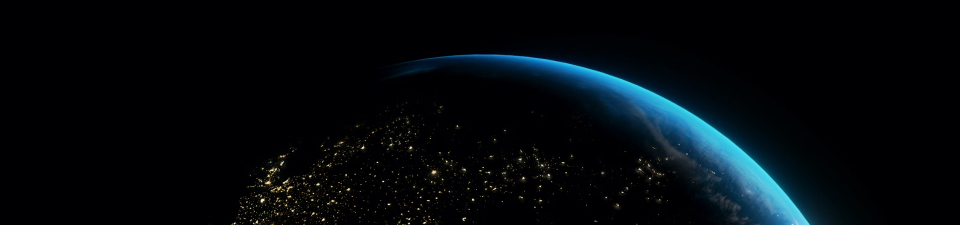
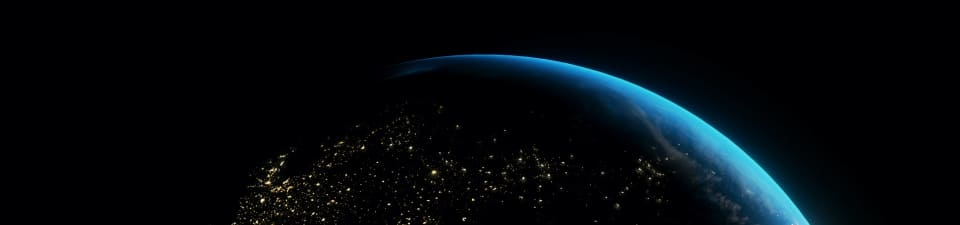
Sitio de detalles del pais creado y estilado

Changed region(s): [[0.25, 0.7778, 0.3125, 0.84], [0.4688, 0.2178, 0.5, 0.2489], [0.2812, 0.8711, 0.3125, 0.9022]]

diff --git a/src/routes/details/components/Details.jsx b/src/routes/details/components/Details.jsx
@@ -1,0 +1,90 @@
+import { NavLink } from "react-router";
+import BgEarth from "../../../assets/BgEarth"
+
+export default function Details({ match, countries }){
+    const countryInfo = match[0];
+
+    return(
+        <>
+            <BgEarth/>
+            <div className="details-wrapper">
+                <header className="details-header">
+                    <figure className="details-header_figure">
+                        <img src={countryInfo.flags.png} alt={countryInfo.flag} className="details-header_flagImage"/>
+                        <figcaption className="details-header_figcaption">
+                            {countryInfo.name.common}
+                            <span className="details-header_officialName">{countryInfo.name.official}</span>
+                        </figcaption>
+                    </figure>
+
+                    <div className="details-header_countryInfo">
+                        <div className="details-header_infoContainer">
+                            <span>Population</span>
+                            <span className="details-header_bar">|</span>
+                            <span>{ countryInfo.population.toLocaleString() }</span>
+                        </div>
+                        
+                        <div className="details-header_infoContainer">
+                            <span>Area (km²)</span>
+                            <span className="details-header_bar">|</span>
+                            <span>{ countryInfo.area.toLocaleString() }</span>
+                        </div>
+                    </div>
+                </header>
+                
+                <main className="details-main">
+                    <ul className="details-main_list">
+                        <li className="details-main_listItem">
+                            <span>Capital</span>
+                            <span>{ countryInfo.capital.map(capitalName => capitalName) }</span>
+                        </li>
+
+                        <li className="details-main_listItem">
+                            <span>Subregion</span>
+                            <span>{ countryInfo.subregion }</span>
+                        </li>
+
+                        <li className="details-main_listItem">
+                            <span>Language</span>
+                            <span>{ Object.values(countryInfo.languages).join(", ") }</span>
+                        </li>
+
+                        <li className="details-main_listItem">
+                            <span>Currencies</span>
+                            <span>{ Object.values(countryInfo.currencies).map(i => i.name).join(", ") }</span>
+                        </li>
+
+                        <li className="details-main_listItem">
+                            <span>Continents</span>
+                            <span>{ countryInfo.continents.map(i => i).join(", ") }</span>
+                        </li>
+                    </ul>
+                </main>
+
+                <footer className="details-footer">
+                    <h3 className="details-footer_title">Neighbouring Countries</h3>
+                    
+                    <ul className="details-footer_list">
+                        { 
+                            countryInfo.borders.map((border) => {
+                                const neighbouring = countries.find(country => country.cca3 == border);
+                                return (
+                                    <li key={border} className="details-footer_listItem">
+                                        <figure className="details-footer_figure">
+                                            <NavLink to={`/details/${ neighbouring.name.common }`} className="details-footer_link">
+                                                <img src={ neighbouring.flags.png } alt={`flag ${ border }`}  className="details-footer_flagImage"/>
+                                                <figcaption className="details-footer_figcaption">{ neighbouring.name.common }</figcaption>
+                                            </NavLink>
+                                        </figure>
+                                    </li>
+                                )
+                            })
+                        }
+                    </ul>
+
+                    <NavLink to="/" className="go-back">Go Back</NavLink>
+                </footer>
+            </div>
+        </>
+    )
+}

diff --git a/src/routes/details/styles/details.css b/src/routes/details/styles/details.css
@@ -1,0 +1,138 @@
+.details-wrapper{
+    width: 55%; height: auto;
+    max-width: 750px;
+    margin-inline: auto;
+    background-color: var(--strong-dark);
+    outline: 1.5px solid var(--soft-dark);
+    border-radius: 10px;
+    transform: translateY(-60px);
+
+    /* Encabezado */
+    .details-header{
+        display: grid;
+        justify-content: center;
+        margin-bottom: 20px;
+        font-family: "BeVietnamPro Medium";
+
+        .details-header_figure{
+            text-align: center;
+            translate: 0 -42px;
+
+            .details-header_flagImage{
+                width: 260px; height: auto;
+                border-radius: 10px;
+            }
+
+            .details-header_figcaption{
+                margin-top: 12px;
+                font-family: "BeVietnamPro SemiBold";
+                font-size: 1.6em;
+                line-height: 1.3;
+
+                .details-header_officialName{
+                    display: block;
+                    font-family: "BeVietnamPro Medium";
+                    font-size: .6em;
+                }
+            }
+        }
+
+        .details-header_countryInfo{
+            display: flex;
+            gap: 20px;
+            font-size: .9em;
+            translate: 0 -18px;
+
+            .details-header_infoContainer{
+                padding: 12px;
+                background-color: var(--soft-dark);
+                border-radius: 10px;
+               
+                .details-header_bar{
+                    display: inline-block;
+                    margin-inline: 5px;
+                    color: #1B1D1F88;
+                    transform: scaleY(1.5);
+                }
+            }
+        }
+    }
+
+    /* Contenido principal: información del país */
+    .details-main{
+        width: 100%; height: auto;
+        margin-bottom: 20px;
+        font-size: .93em;
+
+        .details-main_list{
+            list-style: none;
+
+            .details-main_listItem{
+                display: flex;
+                justify-content: space-between;
+                padding: 15px 18px;
+                border-top: 1.5px solid var(--soft-dark);
+                &:last-child{ border-bottom: 1.5px solid var(--soft-dark) }
+
+                span:first-child{ font-family: "BeVietnamPro Medium" }
+            }
+        }
+    }
+
+    /* Footer: Paises vecinos */
+    .details-footer{
+        display: grid;
+        padding-inline: 15px;
+
+        .details-footer_title{ 
+            margin-bottom: 20px;
+            font-size: .9em; 
+        }
+
+        .details-footer_list{
+            display: flex;
+            gap: 15px;
+            flex-wrap: wrap;
+            margin-bottom: 20px;
+            list-style: none;
+
+            .details-footer_listItem{
+                .details-footer_figure{
+                    max-width: 76px;
+
+                    .details-footer_link{
+                        text-decoration: none;
+                        font-size: .9em;
+                        color: var(--soft-gray);
+                        text-align: center;
+                        line-height: 1.5;
+                        text-wrap: wrap;
+
+                        .details-footer_flagImage{
+                            width: 100%; height: 54px;
+                            border-radius: 8px;
+                            object-fit: cover;
+                        }
+                    }
+                }
+            }
+        }
+
+        .go-back{
+            justify-self: end;
+            display: inline-block;
+            width: 100px;
+            margin-bottom: 22px;
+            padding-block: 8px;
+            font-family: "BeVietnamPro Medium";
+            font-size: .8em;
+            color: var(--soft-gray);
+            text-align: center;
+            text-decoration: none;
+            background-color: var(--soft-dark);
+            border-radius: 8px;
+
+            &:hover{ opacity: .9 }
+        }
+    }
+}

diff --git a/src/routes/app/components/common/TableItem.jsx b/src/routes/app/components/common/TableItem.jsx
@@ -1,3 +1,4 @@
+import { NavLink } from "react-router";
 import { useFilters } from "../../../../context/hook/useFilters"
 import NotFoundCountries from "./NotFoundCountires";
 
@@ -14,9 +15,10 @@ export default function TableItem({ countries }){
                             <img src={flags.png} alt={flag} className="country-table-tbody_flag"/>
                         </td>
                         <td className="country-table-tbody_td">{ name.common }</td>
-                        <td className="country-table-tbody_td">{ population }</td>
-                        <td className="country-table-tbody_td">{ area }</td>
+                        <td className="country-table-tbody_td">{ population.toLocaleString() }</td>
+                        <td className="country-table-tbody_td">{ area.toLocaleString() }</td>
                         <td className="country-table-tbody_td">{ region }</td>
+                        <td className="country-table-tbody_td--navlink"><NavLink to={`/details/${name.common}`} title={`go to detail of ${name.common}`} /></td>
                     </tr>
                 )
             )

diff --git a/src/routes/app/styles/content_wrapper.css b/src/routes/app/styles/content_wrapper.css
@@ -35,6 +35,7 @@
             scrollbar-width: thin;
 
             .country-table-tbody_tr{
+                position: relative;
                 display: flex;
                 align-items: center;
                 height: max-content;
@@ -50,7 +51,21 @@
                         height: 45px;
                         object-fit: fill;
                         border-radius: 5px;
-                        aspect-ratio: 320/213;
+                    }
+                }
+
+                /* enlace a los detalles del país */
+                .country-table-tbody_td--navlink{
+                    position: absolute;
+                    left: 0;
+                    width: 100%; height: 100%;
+
+                    a{
+                        display: inline-block;
+                        width: 100%; height: 100%;
+                        background-color: #282B30;
+                        opacity: 0;
+                        &:hover{ opacity: .2 }
                     }
                 }
             }

diff --git a/src/main.jsx b/src/main.jsx
@@ -8,6 +8,7 @@ import DataCountriesProvider from "./context/DataCountries"
 
 // Componentes de complementación
 import App from "./routes/app/App"
+import DetailsPage from "./routes/details/DetailsPage"
 import ErrorPath from "./routes/ErrorPath"
 
 // Estilos
@@ -16,13 +17,15 @@ import "./css/index.css"
 const root = createRoot(document.getElementById("app"));
 
 root.render(
+    <StrictMode>
         <BrowserRouter>
             <DataCountriesProvider>
                 <Routes>
                     <Route path="*" element={<ErrorPath/>} />
                     <Route index path="/" element={ <App/> } errorElement={<Error/>} />
-                    <Route path="details" element={<h1>Renderizado detalles</h1>} />
+                    <Route path="details/:countryName" element={<DetailsPage/>} />
                 </Routes>
             </DataCountriesProvider>
         </BrowserRouter>
+    </StrictMode>
 )

diff --git a/src/routes/details/DetailsPage.jsx b/src/routes/details/DetailsPage.jsx
@@ -1,0 +1,20 @@
+/---/
+// Herramientas React
+import { use } from "react"
+import { useParams } from "react-router"
+import { DataCountries } from "../../context/DataCountries"
+
+// Componentes de complementación
+import Details from "./components/Details"
+import ErrorPath from "../ErrorPath"
+/---/
+
+export default function DetailsPage(){
+    const { countryName } = useParams();
+    const { countries }   = use(DataCountries);
+    const match = countries.filter(country => country.name.common == countryName);
+    
+    return(
+        match.length != 0 ? <Details match={match} countries={countries}/> : <ErrorPath/>
+    )
+}

diff --git a/src/css/index.css b/src/css/index.css
@@ -8,3 +8,6 @@
   @import "../routes/app/styles/bg_earth.css";
   @import "../routes/app/styles/main.css";
   @import "../routes/app/styles/search.css";
+
+  /* Details Page */
+  @import "../routes/details/styles/details.css";

diff --git a/src/routes/app/App.jsx b/src/routes/app/App.jsx
@@ -1,5 +1,5 @@
 // Componentes de complementación
-import BgEarth from "./components/BgEarth"
+import BgEarth from "../../assets/BgEarth"
 import Main from "./components/Main"
 
 export default function App(){

diff --git a/index.html b/index.html
@@ -9,6 +9,6 @@
 
   <body>
     <div id="app"></div>
-    <script type="module" src="/src/main.jsx"></script>
+    <script type="module" src="/src/main.jsx" defer></script>
   </body>
 </html>

diff --git a/src/assets/BgEarth.jsx b/src/assets/BgEarth.jsx
@@ -1,4 +1,4 @@
-import { Logo } from "../../../assets/Icons"
+import { Logo } from "./Icons"
 
 export default function BgEarth(){
     return(
